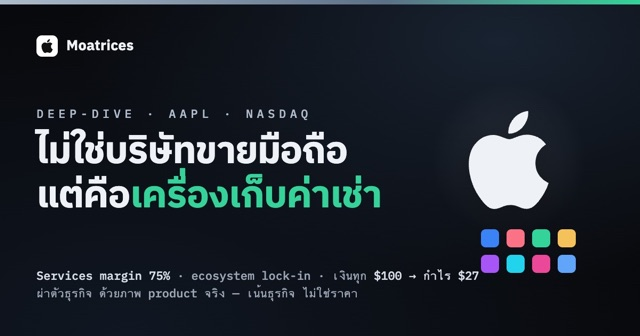
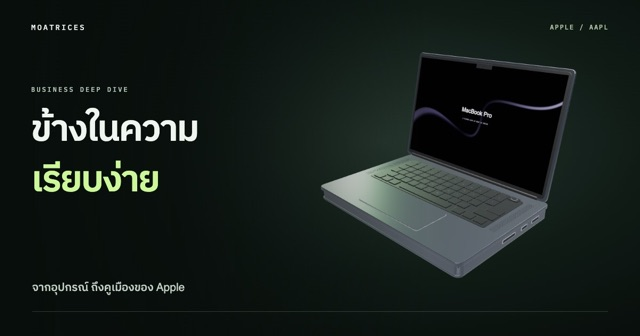
Feature the Apple deep dive on the homepage with refreshed share artwork

diff --git a/articles/deep-dive-aapl.html b/articles/deep-dive-aapl.html
@@ -7,14 +7,17 @@
 <meta property="og:type" content="article"><meta property="og:site_name" content="Moatrices"><meta property="og:locale" content="th_TH">
 <meta property="og:title" content="Apple (AAPL): ข้างในความเรียบง่าย — จากอุปกรณ์ถึงคูเมือง | Moatrices"><meta property="og:description" content="เจาะธุรกิจ Apple ภาษาไทย ผ่าน MacBook และ iPhone Duo แบบเลื่อนสำรวจในบทความ วิเคราะห์รายได้ Services คูเมือง กำไร กระแสเงินสด และความเสี่ยง อ้างอิง FY2025 และ Q3 FY2026">
 <meta property="og:url" content="https://beatp9696-arch.github.io/articles/deep-dive-aapl.html">
-<meta property="og:image" content="https://beatp9696-arch.github.io/og-deep-dive-aapl.jpg">
+<meta property="og:image" content="https://beatp9696-arch.github.io/og-deep-dive-aapl-2026-09-26.jpg">
+<meta property="og:image:width" content="1200"><meta property="og:image:height" content="630"><meta property="og:image:type" content="image/jpeg">
+<meta property="og:image:alt" content="โมเดล MacBook กับชื่อบทความ ข้างในความเรียบง่าย — จากอุปกรณ์ถึงคูเมืองของ Apple">
+<meta name="twitter:image:alt" content="โมเดล MacBook กับชื่อบทความ ข้างในความเรียบง่าย — จากอุปกรณ์ถึงคูเมืองของ Apple">
 <meta name="twitter:card" content="summary_large_image"><meta name="twitter:title" content="Apple (AAPL): ข้างในความเรียบง่าย — จากอุปกรณ์ถึงคูเมือง | Moatrices"><meta name="twitter:description" content="เจาะธุรกิจ Apple ภาษาไทย ผ่าน MacBook และ iPhone Duo แบบเลื่อนสำรวจในบทความ วิเคราะห์รายได้ Services คูเมือง กำไร กระแสเงินสด และความเสี่ยง อ้างอิง FY2025 และ Q3 FY2026">
-<meta name="twitter:image" content="https://beatp9696-arch.github.io/og-deep-dive-aapl.jpg">
+<meta name="twitter:image" content="https://beatp9696-arch.github.io/og-deep-dive-aapl-2026-09-26.jpg">
 <meta property="article:modified_time" content="2026-09-26T00:00:00+07:00">
 <link rel="icon" href="../favicon.svg" type="image/svg+xml">
 <link rel="preload" as="font" type="font/woff2" href="../fonts/sarabun-400-thai.woff2" crossorigin>
 <link rel="stylesheet" href="../apple-story/story.css"><link rel="stylesheet" href="../apple-story/article.css">
-<script type="application/ld+json">{"@context": "https://schema.org", "@type": "Article", "headline": "Apple (AAPL): ข้างในความเรียบง่าย — จากอุปกรณ์ถึงคูเมือง", "description": "เจาะธุรกิจ Apple ภาษาไทย ผ่าน MacBook และ iPhone Duo แบบเลื่อนสำรวจในบทความ วิเคราะห์รายได้ Services คูเมือง กำไร กระแสเงินสด และความเสี่ยง อ้างอิง FY2025 และ Q3 FY2026", "inLanguage": "th", "author": {"@type": "Organization", "name": "Moatrices"}, "publisher": {"@type": "Organization", "name": "Moatrices"}, "datePublished": "2026-07-03", "dateModified": "2026-09-26", "mainEntityOfPage": "https://beatp9696-arch.github.io/articles/deep-dive-aapl.html", "image": "https://beatp9696-arch.github.io/og-deep-dive-aapl.jpg"}</script>
+<script type="application/ld+json">{"@context": "https://schema.org", "@type": "Article", "headline": "Apple (AAPL): ข้างในความเรียบง่าย — จากอุปกรณ์ถึงคูเมือง", "description": "เจาะธุรกิจ Apple ภาษาไทย ผ่าน MacBook และ iPhone Duo แบบเลื่อนสำรวจในบทความ วิเคราะห์รายได้ Services คูเมือง กำไร กระแสเงินสด และความเสี่ยง อ้างอิง FY2025 และ Q3 FY2026", "inLanguage": "th", "author": {"@type": "Organization", "name": "Moatrices"}, "publisher": {"@type": "Organization", "name": "Moatrices"}, "datePublished": "2026-07-03", "dateModified": "2026-09-26", "mainEntityOfPage": "https://beatp9696-arch.github.io/articles/deep-dive-aapl.html", "image": "https://beatp9696-arch.github.io/og-deep-dive-aapl-2026-09-26.jpg"}</script>
 <script type="importmap">{"imports":{"three":"../macbook-lab/vendor/three.module.js"}}</script>
 <script type="module" src="../apple-story/article.mjs"></script>
 </head><body class="article-story" data-editorial-layout="manual">

diff --git a/home-editorial.css b/home-editorial.css
@@ -2,6 +2,31 @@
    Scoped to the homepage; all collections and links work without JavaScript. */
 
 .press-section-side a:hover { color: var(--accent); }
+
+/* A static view of the article's own MacBook scene keeps the entry point light. */
+.apple-feature { margin: 0 0 56px; }
+.apple-feature-link { display: grid; grid-template-columns: 1fr 1fr; align-items: center; overflow: hidden; border: 1px solid #354639; border-radius: 8px; background: #0b130f; color: #edf4ee; text-decoration: none; }
+.apple-feature-copy { position: relative; z-index: 1; padding: 36px 0 36px 36px; }
+.apple-feature-meta { display: flex; flex-wrap: wrap; gap: 10px 18px; align-items: center; font: 400 10px/1.7 var(--font-body); letter-spacing: .025em; color: #c8eab7; }
+.apple-feature-meta time { padding: 3px 9px; border: 1px solid #41513c; border-radius: 3px; color: #c3d0c4; }
+.apple-feature h2 { margin: 19px 0 14px; padding: 0; border: 0; color: #eff5ef; font: 600 clamp(25px, 2.7vw, 36px)/1.45 var(--font-body); letter-spacing: -.02em; }
+.apple-feature-copy > p { max-width: 370px; margin: 0 0 19px; color: #bac9be; font: 400 14px/1.9 var(--font-body); }
+.apple-feature-cta { display: inline-flex; align-items: center; gap: 28px; min-height: 44px; color: #d4f5bb; font: 500 13px/1.7 var(--font-body); }
+.apple-feature-cta > span { font-size: 22px; }
+.apple-feature-image { display: block; width: 100%; height: 100%; min-height: 300px; object-fit: cover; }
+.apple-feature-link:hover { color: #edf4ee; border-color: #87a373; }
+.apple-feature-link:hover .apple-feature-cta { text-decoration: underline; text-underline-offset: 5px; }
+.apple-feature-link:focus-visible { outline: 3px solid #a2c982; outline-offset: 5px; }
+@media (max-width: 700px) {
+  .apple-feature { margin-bottom: 40px; }
+  .apple-feature-link { grid-template-columns: 1fr; }
+  .apple-feature-image { grid-row: 1; height: auto; min-height: 0; aspect-ratio: 1200 / 630; }
+  .apple-feature-copy { padding: 10px 24px 22px; }
+  .apple-feature-meta { gap: 7px 12px; font-size: 9px; }
+  .apple-feature h2 { margin-top: 16px; font-size: clamp(24px, 6.5vw, 32px); }
+  .apple-feature-copy > p { font-size: 13px; }
+}
+
 .press-section { margin-top: 56px; }
 .press-section + .press-section { margin-top: 80px; padding-top: 48px; border-top: 1px solid var(--border); }
 .press-section-heading { display: flex; align-items: flex-end; justify-content: space-between; gap: 28px; margin-bottom: 32px; }

diff --git a/index.html b/index.html
@@ -65,6 +65,18 @@
         <a class="home-button home-button--primary" href="stocks.html">เลือกธุรกิจที่อยากเข้าใจ <span aria-hidden="true">→</span></a>
       </section>
 
+      <section class="apple-feature" aria-label="บทความเด่น">
+        <a class="apple-feature-link" href="articles/deep-dive-aapl.html" aria-labelledby="apple-feature-title">
+          <div class="apple-feature-copy">
+            <div class="apple-feature-meta"><span>บทความเด่น · APPLE / AAPL</span><time datetime="2026-09-26">อัปเดต 26 ก.ย. 2026</time></div>
+            <h2 id="apple-feature-title">ข้างในความเรียบง่าย</h2>
+            <p>เริ่มจาก MacBook และ iPhone แล้วมองลึกถึงรายได้ กำไร และคูเมืองของ Apple</p>
+            <span class="apple-feature-cta">สำรวจธุรกิจ Apple <span aria-hidden="true">↗</span></span>
+          </div>
+          <img class="apple-feature-image" src="img/apple-macbook-2026-09-26.jpg" alt="" width="1200" height="630" decoding="async">
+        </a>
+      </section>
+
       <section class="press-section press-series" aria-labelledby="home-series">
         <header class="press-section-heading">
           <div><p class="home-eyebrow">THE COLLECTED SERIES</p><h2 id="home-series">ค่อย ๆ ต่อภาพใหญ่<br><span>ทีละซีรีส์</span></h2></div>

diff --git a/articles.html b/articles.html
@@ -771,7 +771,7 @@
           <p class="excerpt">
             สำรวจ MacBook และ iPhone Duo แบบโต้ตอบ แล้วเจาะรายได้ Services คูเมือง กำไร กระแสเงินสด และความเสี่ยงของ Apple — อัปเดต 26 ก.ย. 2026
           </p>
-          <img class="card-thumb" src="img/thumbs/deep-dive-aapl.jpg" alt="Apple (AAPL): ข้างในความเรียบง่าย — จากอุปกรณ์ถึงคูเมือง" loading="lazy" decoding="async" width="640" height="336">
+          <img class="card-thumb" src="img/thumbs/deep-dive-aapl.jpg?v=20260926" alt="Apple (AAPL): ข้างในความเรียบง่าย — จากอุปกรณ์ถึงคูเมือง" loading="lazy" decoding="async" width="640" height="336">
           <span class="read-more">อ่านต่อ →</span>
         </li>
 

diff --git a/tools/render-apple-share.py b/tools/render-apple-share.py
@@ -1,0 +1,91 @@
+"""Export Apple share artwork from the article's own Three.js scene.
+
+Run with Python + Playwright and an installed Chrome browser.
+Outputs are static JPEGs; the homepage never loads the 3D scene.
+"""
+from functools import partial
+from http.server import SimpleHTTPRequestHandler, ThreadingHTTPServer
+from pathlib import Path
+from threading import Thread
+import shutil
+
+from playwright.sync_api import sync_playwright
+
+ROOT = Path(__file__).resolve().parents[1]
+
+
+class Quiet(SimpleHTTPRequestHandler):
+    def log_message(self, *args):
+        pass
+
+
+def main():
+    server = ThreadingHTTPServer(('127.0.0.1', 0), partial(Quiet, directory=str(ROOT)))
+    Thread(target=server.serve_forever, daemon=True).start()
+    origin = f'http://127.0.0.1:{server.server_port}'
+    try:
+        with sync_playwright() as p:
+            browser = p.chromium.launch(channel='chrome', headless=True,
+                                        args=['--enable-unsafe-swiftshader'])
+            page = browser.new_page(viewport={'width': 1200, 'height': 630},
+                                    device_scale_factor=1, reduced_motion='reduce')
+            page.route('**/*', lambda r: r.continue_() if r.request.url.startswith(origin) else r.abort())
+            page.goto(origin + '/articles/deep-dive-aapl.html', wait_until='networkidle')
+            page.wait_for_function("document.body.dataset.ready === 'true'")
+            page.evaluate('document.fonts.ready')
+            page.add_style_tag(content='''
+                html, body { width:1200px; height:630px; overflow:hidden; }
+                .mast, .scene-meta, .scale, .bottom-bar, .progress,
+                .scene-status, .vignette, .skip-link, main > article > :not(.journey),
+                .article-footer { display:none!important; }
+                .journey, .stage { height:630px!important; min-height:0!important; }
+                .chapters { visibility:hidden!important; }
+                .stage { position:relative; background:radial-gradient(ellipse at 60% 42%,#273730,#101b16 48%,#080e0b 85%); }
+                #scene canvas { transform:translate(-17%,0) scale(.75); }
+            ''')
+            page.evaluate("dispatchEvent(new Event('resize'))")
+            page.wait_for_timeout(350)
+            page.screenshot(path=str(ROOT / 'img/apple-macbook-2026-09-26.jpg'),
+                            type='jpeg', quality=88)
+            page.add_style_tag(content='''
+                #scene canvas { transform:translate(5%,0) scale(.75); }
+                .share-art { position:fixed; inset:0; pointer-events:none;
+                    background:linear-gradient(90deg,#080e0b 0%,#080e0bd9 28%,transparent 67%); }
+                .share-brand { position:absolute; top:42px; left:58px; color:#e9eeeb;
+                    font:14px Mono,monospace; letter-spacing:3px; }
+                .share-edition { position:absolute; top:43px; right:58px;
+                    color:#abc29f; font:12px Mono,monospace; letter-spacing:2px; }
+                .share-copy { position:absolute; left:58px; top:160px; }
+                .share-copy p { margin:0 0 22px; color:#b3c3b7;
+                    font:12px Mono,monospace; letter-spacing:3px; }
+                .share-copy h1 { margin:0; color:#eff5ef; font:600 68px/1.4 Thai,sans-serif;
+                    letter-spacing:-2px; }
+                .share-copy h1 span { color:#ccf899; }
+                .share-subtitle { position:absolute; bottom:73px; left:60px;
+                    color:#c0cec3; font:21px Thai,sans-serif; }
+                .share-rule { position:absolute; bottom:45px; left:60px; right:60px;
+                    height:1px; background:#abc29f40; }
+            ''')
+            page.evaluate('''() => {
+                const art = document.createElement('div');
+                art.className = 'share-art';
+                art.innerHTML = `<div class="share-brand">MOATRICES</div>
+                  <div class="share-edition">APPLE / AAPL</div>
+                  <div class="share-copy"><p>BUSINESS DEEP DIVE</p>
+                    <h1>ข้างในความ<br><span>เรียบง่าย</span></h1></div>
+                  <div class="share-subtitle">จากอุปกรณ์ ถึงคูเมืองของ Apple</div>
+                  <div class="share-rule"></div>`;
+                document.body.append(art);
+            }''')
+            page.evaluate('document.fonts.ready')
+            versioned = ROOT / 'og-deep-dive-aapl-2026-09-26.jpg'
+            page.screenshot(path=str(versioned), type='jpeg', quality=90)
+            shutil.copyfile(versioned, ROOT / 'og-deep-dive-aapl.jpg')
+            browser.close()
+            print('Exported Apple feature image and 1200 × 630 share artwork.')
+    finally:
+        server.shutdown()
+
+
+if __name__ == '__main__':
+    main()
